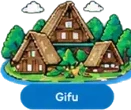
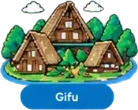
都道府県のアイコンを、絵が欠けない範囲で切り直し（右側の断片も残す）。都道府県ページの帯では、約70%の大きさに
Claude-Session: https://claude.ai/code/session_017Yx5Wn5sjwL1UNzUh6z4bo

diff --git a/static/style.css b/static/style.css
@@ -158,7 +158,9 @@ aside h2{font-size:15px;margin-bottom:10px}
 .pref-card .pc-t{display:flex;justify-content:space-between;align-items:center;gap:8px;flex:1;min-width:0}
 .pref-card .pc-t small{font-size:15px;color:var(--ink);font-weight:700}
 /* 県のページの帯のイラスト（県別の画像） */
-.pg-banner-art[style*="/img/pref/"]{background-size:contain}
+/* 都道府県のアイコン：帯の中で、従来の約70%の大きさ（PC 98px・スマホ 70px の高さ） */
+.pg-banner-art[style*="/img/pref/"]{background-size:auto 98px}
+@media (max-width:900px){.pg-banner-art[style*="/img/pref/"]{background-size:auto 70px}}
 
 /* TIPS（/tips/）：番号つきの10項目 */
 .tips{list-style:none;margin:0;padding:0;display:grid;gap:14px}
